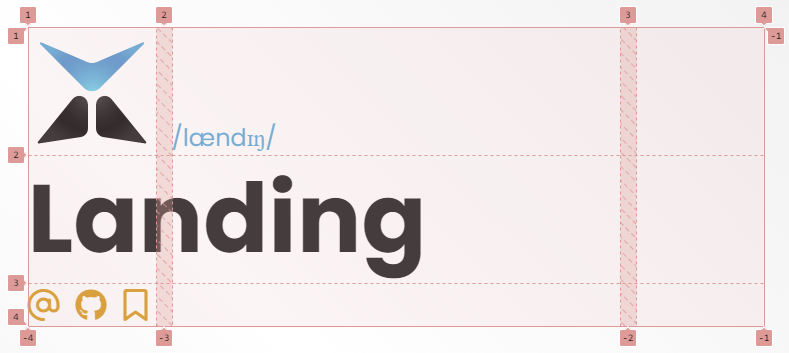
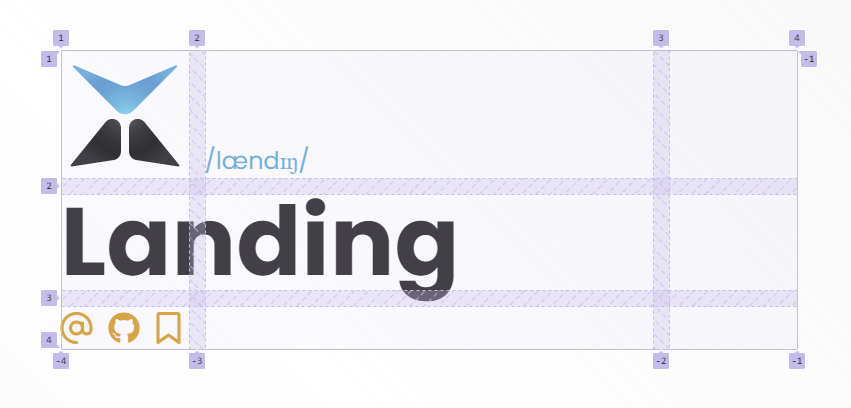
feat: Add site nav as a header element

diff --git a/mkdocs_landing/css/style.css b/mkdocs_landing/css/style.css
@@ -73,27 +73,27 @@ div#background-gradient {
 
 /** Header **/
 
+header {
+    padding: 4rem 0;
+    column-gap: 1rem;
+    row-gap: 1rem;
+}
 header#header {
     display: grid;
-    column-gap: 1rem;
     align-items: end;
-    padding-top: 4rem;
 }
 header#article-header {
-    padding-top: 4rem;
+    display: grid;
+    grid-auto-flow: row;
 }
-header#header #title,
-header#header #title a {
-    font-size: 6rem;
-}
-header#article-header #title, 
-header#article-header #title a {
+header#article-header h1 {
     font-size: 3rem;
 }
 
 h1#title, h1#title a {
+    font-size: 6rem;
     grid-column-end: span 2;
-    margin: 1rem 0;
+    margin: 0;
     color: var(--text);
     line-height: 1em;
 }
@@ -127,27 +127,32 @@ img#avatar {
     min-width: 100%;
     border: none;
 }
-
+nav#site-nav {
+    font-size: 1.5rem;
+    grid-column-end: span 2;
+    margin: 0;
+}
 
 /** Navigation **/
 
 nav ul {
     display: grid;
     list-style-type: none;
+    padding: 0;
+    margin: 0;
+}
+nav .current {
+    font-weight: bold;
 }
 nav.vertical ul {
     grid-auto-flow: row;
     row-gap: .5rem;
-}
-nav.vertical li.nav-subitem:first-child {
     margin-top: .5rem;
 }
 nav.horizontal ul {
     grid-auto-flow: column;
-    column-gap: .5rem;
-}
-nav.horizontal li.nav-subitem:first-child {
-    margin-left: .5rem;
+    column-gap: 2rem;
+    justify-content: start;
 }
 nav a {
     display: block;

diff --git a/mkdocs_landing/partials/header_element.html b/mkdocs_landing/partials/header_element.html
@@ -24,6 +24,18 @@
     {{ config.theme.tagline | markdown(id="tagline") }}
 {% elif emt == "title" %}
     <h1 id="title"><a href={{ "." | url }}>{{ config.site_name }}</a></h1>
+{% elif emt == "nav" %}
+    <nav class="horizontal" id="site-nav">
+        <ul>
+            {% for nav_item in nav %}
+            {% if nav_item.children and not nav_item.url %}
+            <li class="nav-item"><a class="{% if nav_item.active %}current{% endif %}" href="{{ nav_item.children[0].url|url }}">{{nav_item.title }}</a></li>
+            {% else %}
+            <li class="nav-item"><a class="{% if nav_item.active %}current{% endif %}" href="{{ nav_item.url|url }}">{{nav_item.title }}</a></li>
+            {% endif %}
+            {% endfor %}
+        </ul>
+    </nav>
 {% else %}
     <div></div>
 {% endif %}

diff --git a/docs_src/configuration.md b/docs_src/configuration.md
@@ -14,6 +14,7 @@ The header is laid out in a grid with three columns; the outer columns are each 
 
 - avatar (1 column wide): The image defined in [`avatar`](#avatar)
 - tagline (2 columns wide): The markdown text defined in [`tagline`](#tagline)
+- nav (2 columns wide): Top level links from the site-wide navigation defined in [`nav`](https://www.mkdocs.org/user-guide/configuration/#nav) (in general config)
 - title (2 columns wide): The name of your site defined in [`site_name`](https://www.mkdocs.org/user-guide/configuration/#site_name) (in general config)
 - socials (2 columns wide): Social media links defined in [`socials`](#socials)
 
